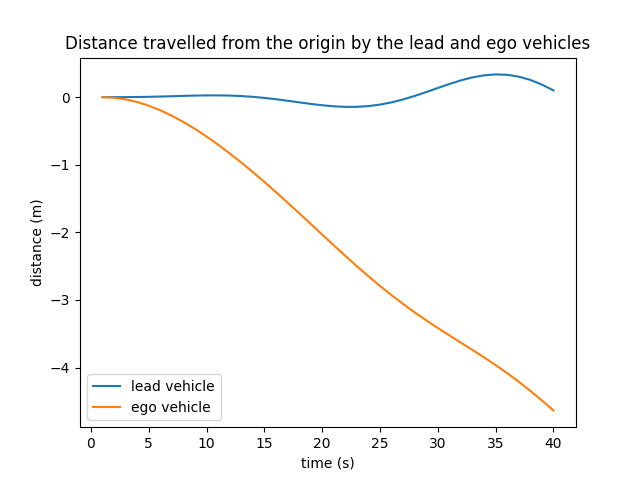
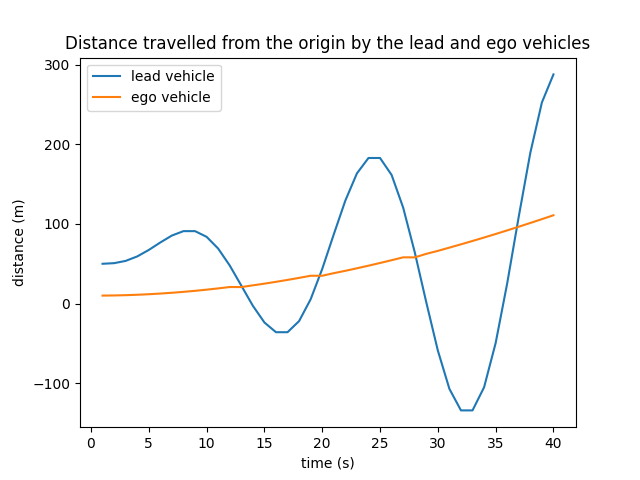
something is fucked with the control, it either responds too much or not enough

diff --git a/src/main.cc b/src/main.cc
@@ -7,13 +7,12 @@
 
 #define SETSPEED    30                  // setpoint ego speed in m/s
 #define SETDISTANCE 10                  // minimum distance in m
-#define AMPLITUDE   0.5 
-#define SHIFT       0 
-#define CYCLES      3
+#define AMPLITUDE   2 
+#define CYCLES      5
 #define EGOINITPOS  10
 #define LEADINITPOS 50
 #define EGOINITVEL  20
-#define LEADINITVEL 25
+#define LEADINITVEL 20
 
 int main(int argc, char* argv[]) {
 
@@ -28,7 +27,7 @@ int main(int argc, char* argv[]) {
     ACC acc(SETSPEED, SETDISTANCE);
 
     // set PID params through ACC
-    acc.SetPID(1,0.0,0.0);
+    acc.SetPID(5,2,3);
 
     // acceleration bounds for ACC response
     acc.SetBounds(-3, 3);
@@ -41,7 +40,7 @@ int main(int argc, char* argv[]) {
          */
 
         // update the lead vehicle acceleration through waveform
-        lead.UpdateState(AMPLITUDE*sin(M_PI*CYCLES*i/SIMDURATION)+SHIFT, i);
+        lead.UpdateAcceleration(AMPLITUDE*sin(M_PI*CYCLES*i/SIMDURATION), i);
 
         // decides whether to keep at ego speed or adjust to keep min distance
         // update vehicle states

diff --git a/src/vehicle.cc b/src/vehicle.cc
@@ -20,7 +20,8 @@ void Vehicle::UpdateState(double control, int clk) {
 
     // a(t) = u / m * e ^ (-t * b / m)
     // v(t) = u / b * (1 - e ^ (-t * b / m)
-    
+    this->control=10*control;
+
     acceleration = control / mass * exp(-clk * b / mass);
     speed = control / b * (1 - exp(-clk * b / mass));
 
@@ -28,7 +29,15 @@ void Vehicle::UpdateState(double control, int clk) {
 
     // integrates speed over 1 tick
 //    position+= 1 * speed;
-    position = clk * speed;
+    position += 1 * speed;
+}
+
+void Vehicle::UpdateAcceleration(double acceleration, int clk) {
+    this->acceleration=acceleration;
+
+    control = acceleration * mass * exp(clk * b / mass);
+    speed = control / b * (1 - exp(-clk * b / mass));
+    position += 1 * speed;
 }
 
 // get vehicle speed

diff --git a/include/vehicle.h b/include/vehicle.h
@@ -11,6 +11,8 @@ public:
 
     void UpdateState(double, int);
 
+    void UpdateAcceleration(double, int);
+
     double GetSpeed();
 
     double GetAcceleration();
@@ -25,7 +27,7 @@ private:
     double control;
     int clk;
     const double mass = 1200; // kg
-    const double b = 26; // Ns/m
+    const double b = 10; // Ns/m
 };
 
 #endif // VEHICLE_H_
